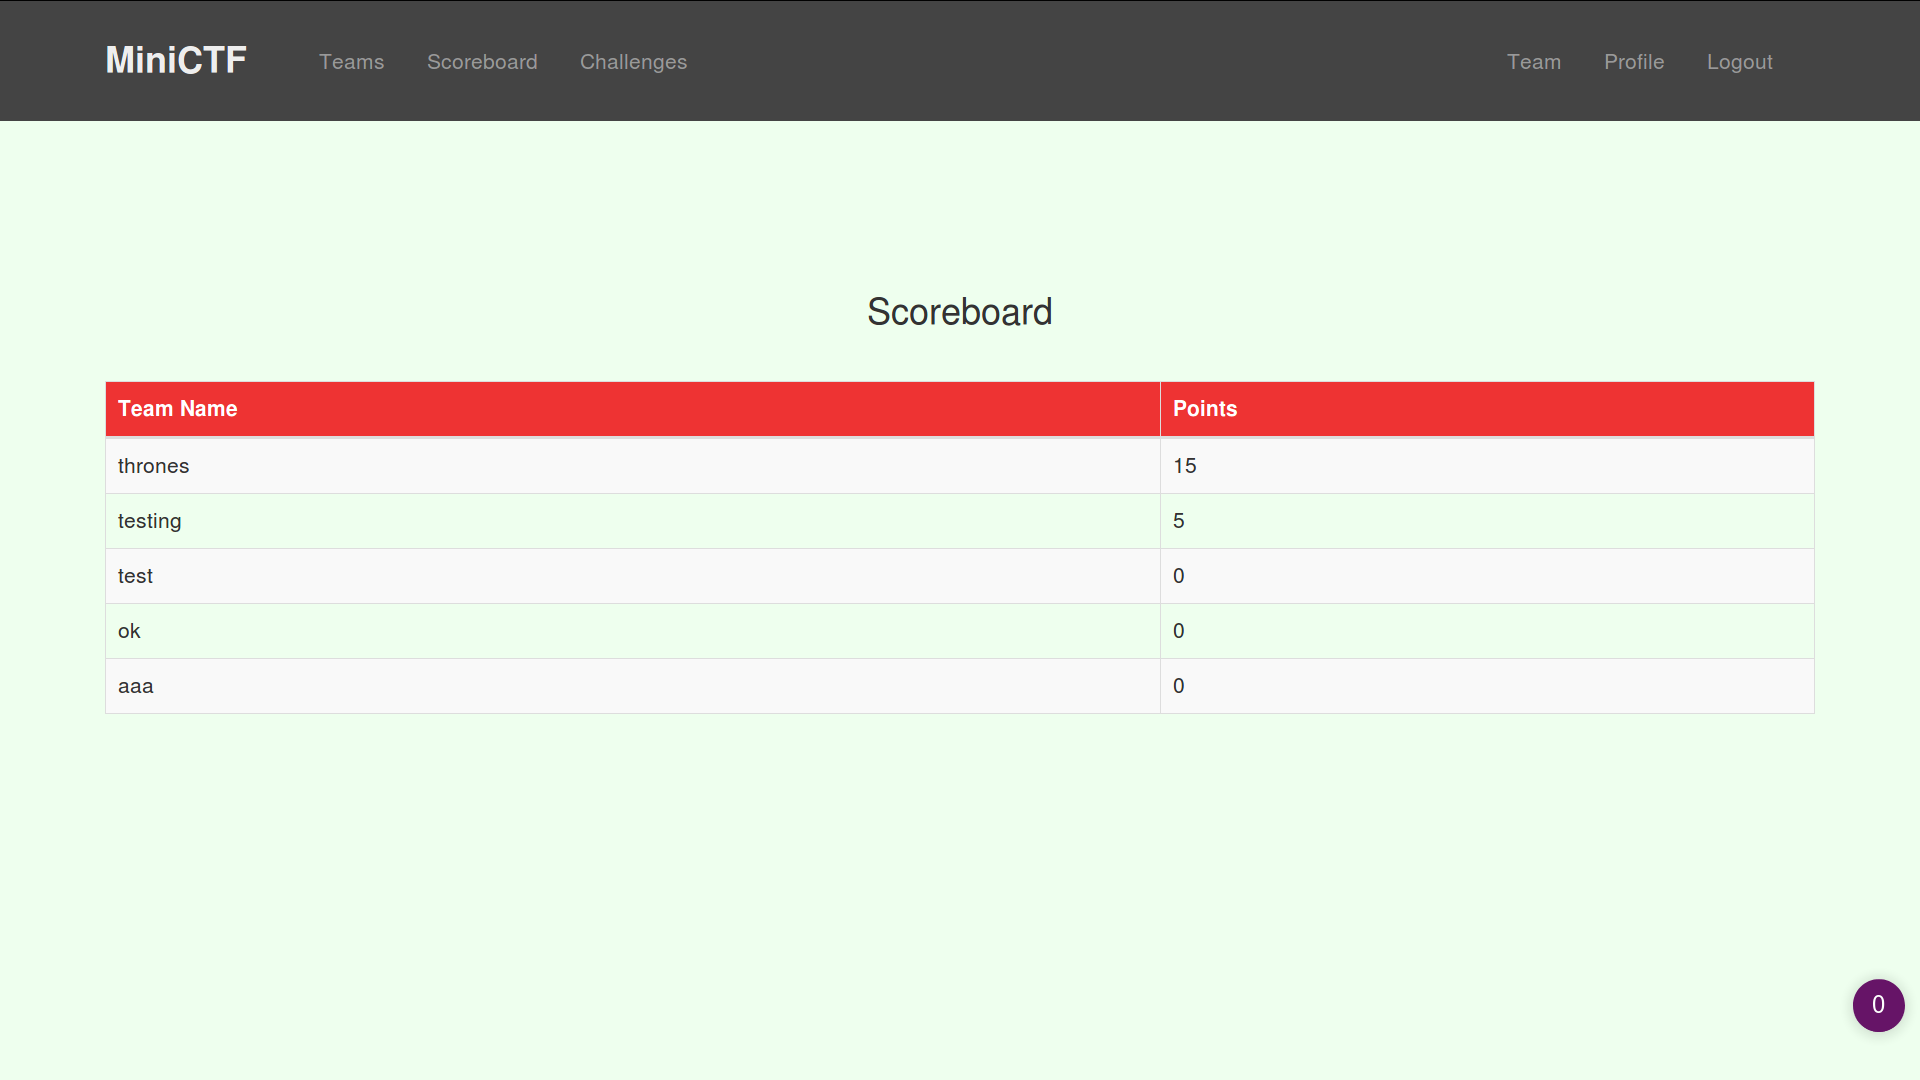
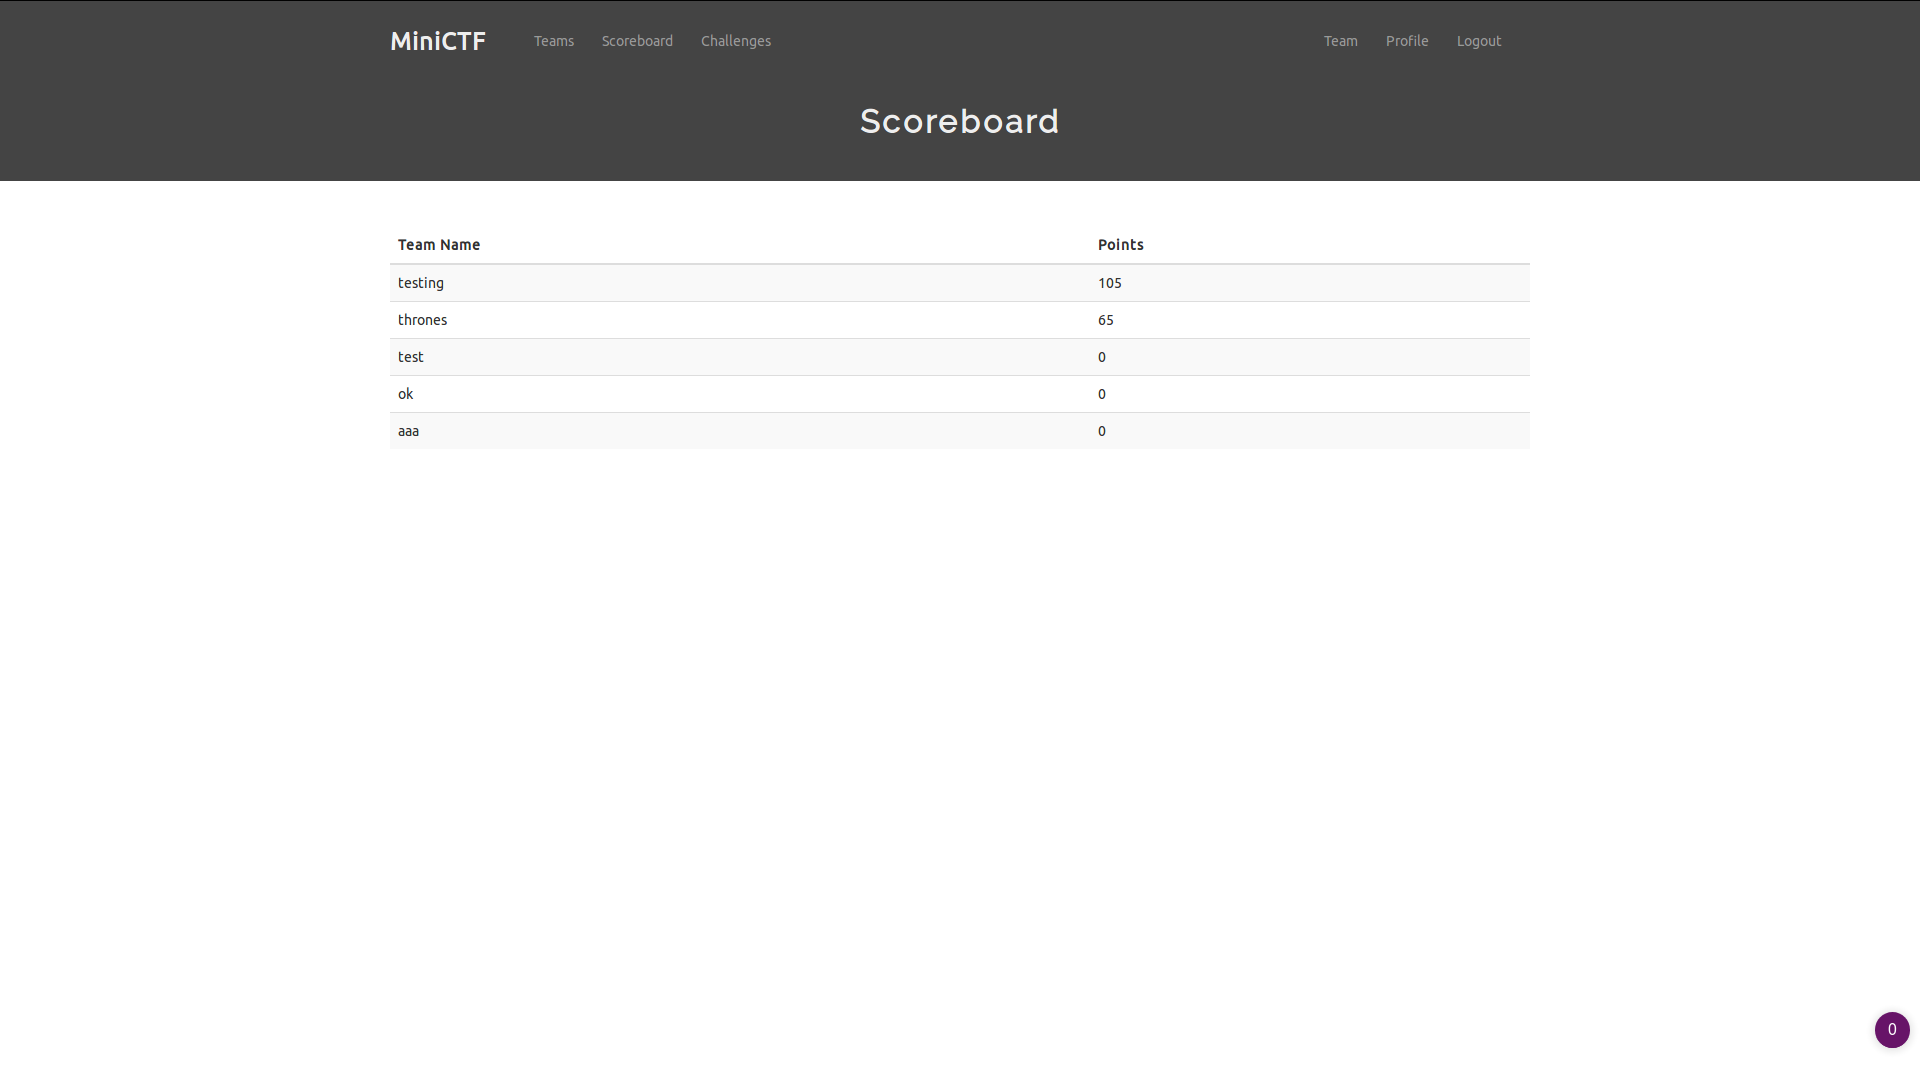
updated

diff --git a/accounts/templates/team/team.html b/accounts/templates/team/team.html
@@ -11,64 +11,50 @@
 {% endblock %}
 
 {% block custombody %}
+
+	<div id="pageHeading">
+		<p>{{ team_details.teamname }}</p>	
+	</div>
+	
 	<div class="container">
+		
 		<div id="team_details">
-			<h3>Team Details</h3>
-			<div class="table-responsive">
-				<table class="table table-bordered">
-					<tbody>
-						<tr>
-							<td>Team Name</td>
-							<td>{{ team_details.teamname }}</td>
-						</tr>
-						<tr>
-							<td>Team Email</td>
-							<td>{{ team_details.email }}</td>
-						</tr>
-						<tr>
-							<td>Team Job</td>
-							<td>{{ team_details.job }}</td>
-						</tr>
-						<tr>
-							<td>Team Company</td>
-							<td>{{ team_details.company }}</td>
-						</tr>
-						<tr>
-							<td>Team Points</td>
-							<td>{{ team_details.points }}</td>
-						</tr>
-					</tbody>
-				</table>
-			</div>
+			<p style="color: #444;"> <b style="font-size: 24px; color: #222">{{ team_details.points }}</b> points</p>
 		</div>
+		
 		<div id="solved_challenges">
-			<h3>Solved Challenges</h3>
-			<div class="table-responsive">
-				<table class="table table-bordered">
-					<thead>
-						<tr>
-							<td>
-								<b>Challenge Name</b>
-							</td>
-							<td>
-								<b>Points</b>
-							</td>
-						</tr>
-				</thead>
-				<tbody>
-					{% for solve in solved_challenges %}
-						<tr>
-							<td>
-								{{ solve.challenge_id }}
-							</td>
-							<td>
-								{{ solve.points }}
-							</td>
-						</tr>
-					{% endfor %}
-				</tbody>
-				</table>
-			</div>
+			{% if solved_challenges %}
+				<h3>Solved Challenges</h3>
+				<div class="table-responsive">
+					<table class="table table-bordered">
+						<thead>
+							<tr>
+								<td>
+									<b>Challenge Name</b>
+								</td>
+								<td>
+									<b>Points</b>
+								</td>
+							</tr>
+						</thead>
+						<tbody>
+							{% for solve in solved_challenges %}
+								<tr>
+									<td>
+										{{ solve.challenge_id }}
+									</td>
+									<td>
+										{{ solve.points }}
+									</td>
+								</tr>
+							{% endfor %}
+						</tbody>
+					</table>
+				</div>
+			{% else %}
+				<p>No solves yet</p>
+			{% endif %}
 		</div>
+	
 	</div>
 {% endblock %}

diff --git a/accounts/static/css/team.css b/accounts/static/css/team.css
@@ -1,8 +1,29 @@
-#team_details h3 {
-	margin-top: 10%;
+#team_details {
+	margin-top: 5%;
 	text-align: center;
+	font-size: 20px;
+	margin-bottom: 5%;
 }
 
 #solved_challenges h3 {
 	text-align: center;
+}
+
+#solved_challenges p {
+	text-align: center;
+	font-size: 20px;
+}
+
+#pageHeading {
+	width: 100%;
+	height: 100px;
+	background-color: #444;
+	color: #eee;
+	text-align: center;
+	line-height: 80px;
+	vertical-align: middle;
+	font-size: 32px;
+	font-weight: bold;
+	font-family: 'Raleway';
+	letter-spacing: 2px;
 }

diff --git a/templates/navigationbar.html b/templates/navigationbar.html
@@ -14,6 +14,7 @@
 	<link rel="stylesheet" type="text/css" href="{% static 'css/navigationbar.css' %}">
 	<link href='https://fonts.googleapis.com/css?family=Ubuntu' rel='stylesheet'>
 	<link href='https://fonts.googleapis.com/css?family=ABeeZee' rel='stylesheet'>
+	<link href='https://fonts.googleapis.com/css?family=Raleway' rel='stylesheet'>
 	<script type="text/javascript" src="{% static 'js/jquery-3.2.1.min.js' %}"></script>
 	<script type="text/javascript" src="{% static 'js/bootstrap.min.js' %}"></script>
 

diff --git a/teams/static/style.css b/teams/static/style.css
@@ -1,5 +1,5 @@
 #teamList {
-	margin: 10% 0;
+	margin: 2% 0;
 	text-align: center;
 }
 
@@ -8,7 +8,24 @@ table {
 	text-align: left;
 }
 
+table tbody tr td:first-child {
+	color: #008cba;
+}
+
 table th {
-	background-color: #e33;
-	color: #fff;
+	color: #222;
+}
+
+#pageHeading {
+	width: 100%;
+	height: 100px;
+	background-color: #444;
+	color: #eee;
+	text-align: center;
+	line-height: 80px;
+	vertical-align: middle;
+	font-size: 32px;
+	font-weight: bold;
+	font-family: 'Raleway';
+	letter-spacing: 2px;
 }

diff --git a/scoreboard/static/score.css b/scoreboard/static/score.css
@@ -1,5 +1,5 @@
 #score {
-	margin-top: 10%;
+	margin-top: 2%;
 	text-align: center;
 }
 
@@ -8,7 +8,16 @@ table {
 	text-align: left;
 }
 
-table th {
-	background-color: #e33;
-	color: #fff;
+#pageHeading {
+	width: 100%;
+	height: 100px;
+	background-color: #444;
+	color: #eee;
+	text-align: center;
+	line-height: 80px;
+	vertical-align: middle;
+	font-size: 32px;
+	font-weight: bold;
+	font-family: 'Raleway';
+	letter-spacing: 2px;
 }

diff --git a/teams/templates/teams.html b/teams/templates/teams.html
@@ -12,11 +12,14 @@
 
 {% block custombody %}
 
+	<div id="pageHeading">
+		<p>Teams</p>
+	</div>
+	
 	<div class="container">
 		<div id="teamList">
-			<h3>All Teams List</h3>
 			<div class="table-responsive">
-				<table class="table table-striped table-bordered">
+				<table class="table table-striped">
 					<thead>
 						<tr>
 							<th>Team name</th>

diff --git a/scoreboard/templates/scoreboard.html b/scoreboard/templates/scoreboard.html
@@ -12,11 +12,14 @@
 
 {% block custombody %}
 	
+	<div id="pageHeading">
+		<p>Scoreboard</p>
+	</div>
+	
 	<div class="container">
 		<div id="score">
-			<h3>Scoreboard</h3>
 			<div class="table-responsive">
-				<table class="table table-striped table-bordered">
+				<table class="table table-striped">
 					<thead>
 						<tr>
 							<th>Team Name</th>

diff --git a/challenges/static/css/challenges.css b/challenges/static/css/challenges.css
@@ -5,14 +5,16 @@
 
 #pageHeading {
 	width: 100%;
-	height: 80px;
+	height: 100px;
 	background-color: #444;
 	color: #eee;
 	text-align: center;
 	line-height: 80px;
 	vertical-align: middle;
-	font-size: 28px;
+	font-size: 32px;
 	font-weight: bold;
+	font-family: 'Raleway';
+	letter-spacing: 2px;
 }
 
 .heading p {

diff --git a/README.md b/README.md
@@ -30,7 +30,7 @@ Score Board
 
 Team Details
 
-<img src="readmeimg/details.png" width="100%">
+<img src="readmeimg/teams.png" width="100%">
 
 
 #### Test it locally
